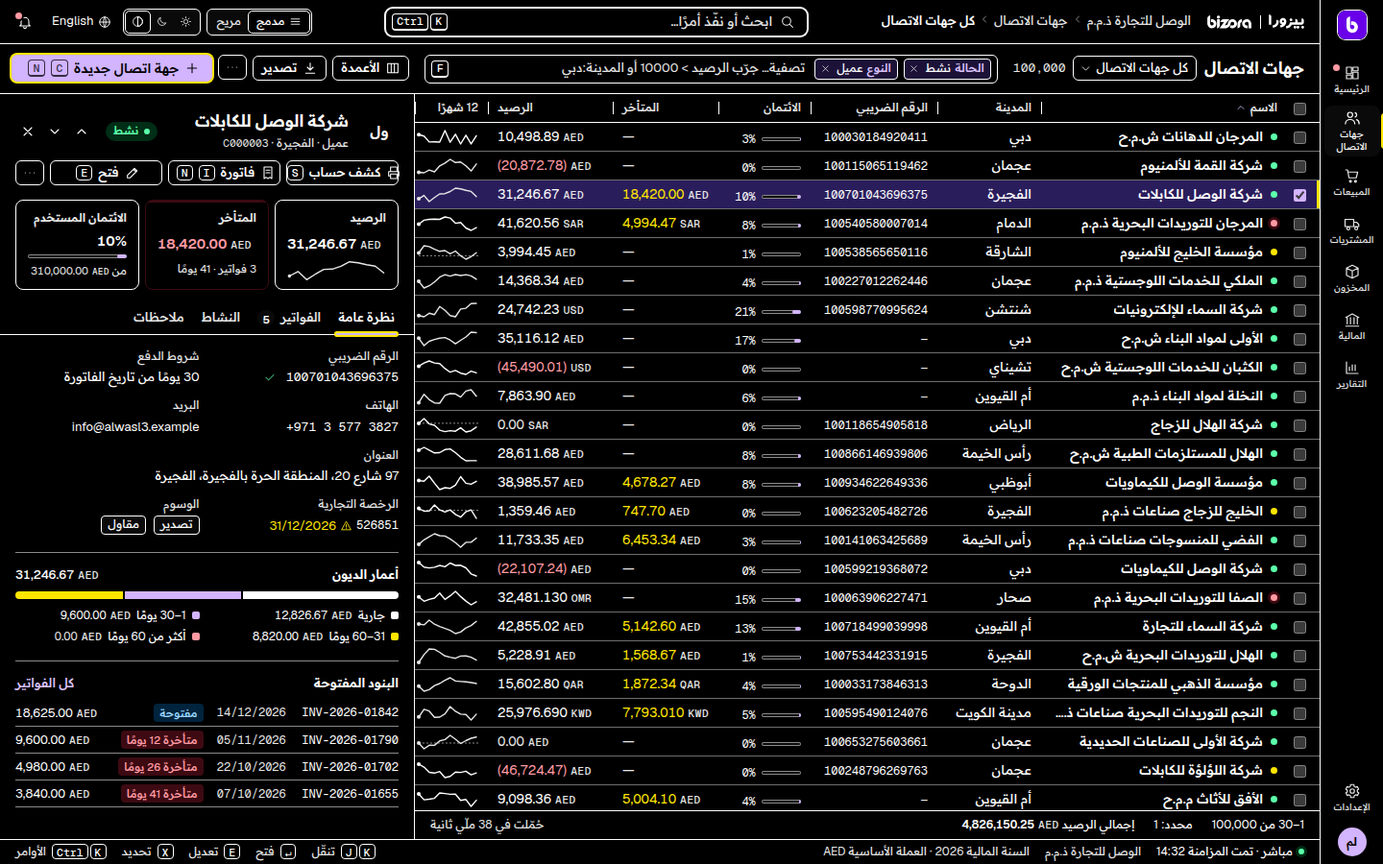
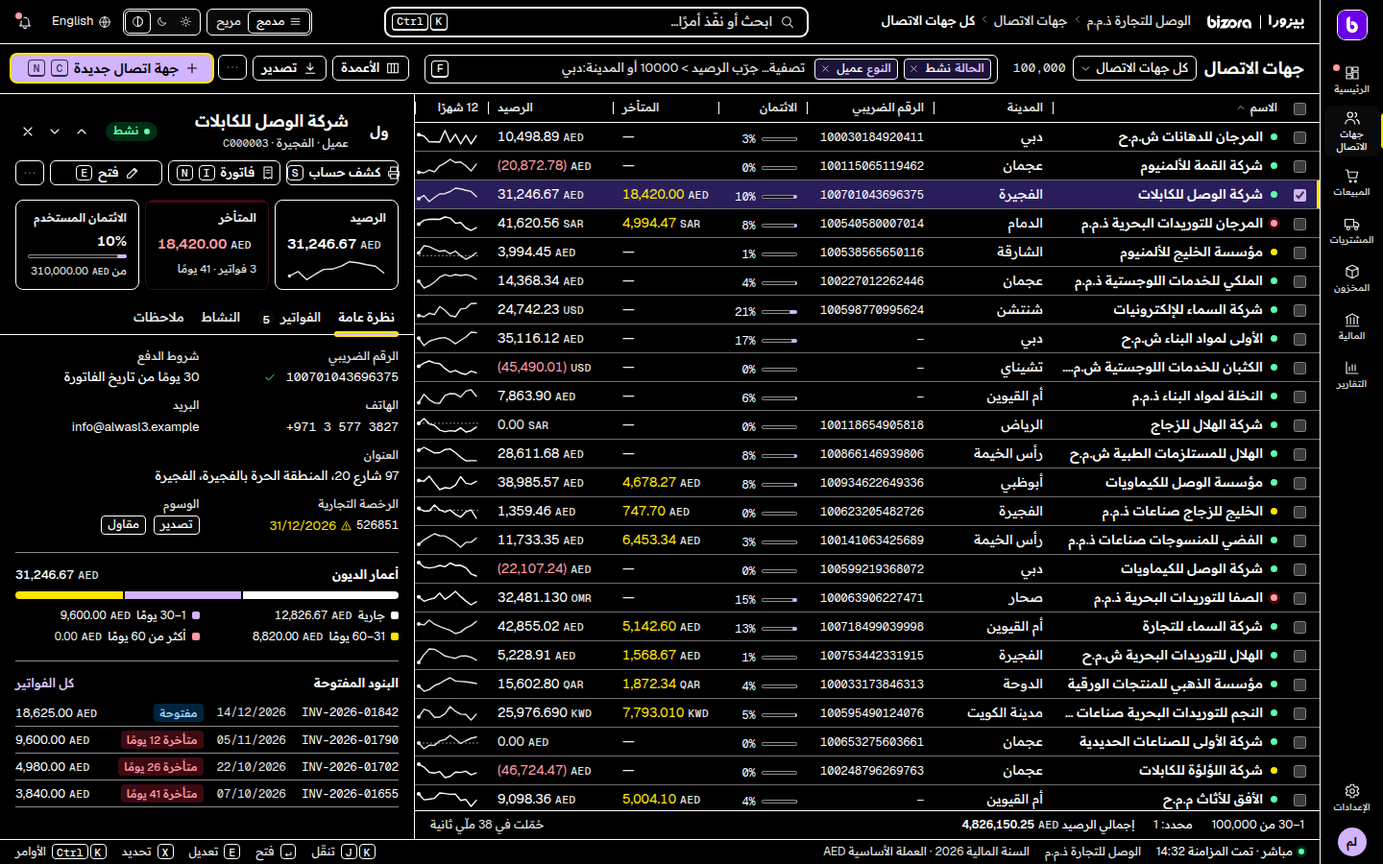
p18 samples round 2: direction D note, settings panels, wider city column, re-shot views
Claude-Session: https://claude.ai/code/session_01SSccqZmSUeubK1GMxd3Dhv

Changed region(s): [[0.5938, 0.1244, 0.75, 0.9333], [0.5938, 0.1244, 0.6875, 0.3733]]

diff --git a/docs/design/samples/d/settings.ar.html b/docs/design/samples/d/settings.ar.html
@@ -19,7 +19,7 @@
 <div class="setstats"><div><span class="k">نشطون</span><b class="mono"><bdi dir="ltr">9</bdi></b></div><div><span class="k">التحقق بخطوتين مفعّل</span><b class="mono"><bdi dir="ltr">7 / 12</bdi></b></div><div><span class="k">مدعوون</span><b class="mono"><bdi dir="ltr">1</bdi></b></div><div><span class="k">مقفلون</span><b class="mono t-danger"><bdi dir="ltr">1</bdi></b></div><div><span class="k">آخر مراجعة للصلاحيات</span><b class="mono"><bdi dir="ltr">10/11/2026</bdi></b></div></div>
 <div class="split split-set"><div class="setcol"><div class="grid-wrap"><table class="grid grid-users" aria-label="المستخدمون"><thead><tr><th class="c-sel"><input type="checkbox" aria-label="تحديد الكل"></th><th scope="col" class="c-name"><span class="th-in">المستخدم</span><i class="rz"></i></th><th scope="col" class="c-email"><span class="th-in">البريد</span><i class="rz"></i></th><th scope="col" class="c-roles"><span class="th-in">الأدوار</span><i class="rz"></i></th><th scope="col" class="c-2fa"><span class="th-in">التحقق</span><i class="rz"></i></th><th scope="col" class="c-status"><span class="th-in">الحالة</span><i class="rz"></i></th><th scope="col" class="c-last"><span class="th-in">آخر دخول</span><i class="rz"></i></th></tr></thead><tbody><tr class="row" tabindex="0"><td class="c-sel"><input type="checkbox" aria-label="تحديد"></td><td class="c-name trunc"><span class="avatar av-person">لم</span><span class="nm"><b title="ليلى المزروعي">ليلى المزروعي</b></span></td><td class="trunc" title="layla@alwasl-trading.example"><bdi dir="ltr">layla@alwasl-trading.example</bdi></td><td class="c-roles" title="المالك"><span class="tag">المالك</span></td><td><span class="ok-inline"><svg class="ic " viewBox="0 0 24 24" aria-hidden="true" focusable="false"><path d="M12 3l8 3v6c0 5-3.5 8-8 9-4.5-1-8-4-8-9V6zM8.5 12l2.5 2.5 4.5-5"/></svg>مفعّل</span></td><td><span class="pill pill-active"><i class="dot"></i>نشط</span></td><td class="tnum"><bdi dir="ltr">17/11/2026</bdi></td></tr><tr class="row is-selected" tabindex="0"><td class="c-sel"><input type="checkbox" checked aria-label="تحديد"></td><td class="c-name trunc"><span class="avatar av-person">عس</span><span class="nm"><b title="عمر السويدي">عمر السويدي</b></span></td><td class="trunc" title="omar.s@alwasl-trading.example"><bdi dir="ltr">omar.s@alwasl-trading.example</bdi></td><td class="c-roles" title="محاسب"><span class="tag">محاسب</span></td><td><span class="ok-inline"><svg class="ic " viewBox="0 0 24 24" aria-hidden="true" focusable="false"><path d="M12 3l8 3v6c0 5-3.5 8-8 9-4.5-1-8-4-8-9V6zM8.5 12l2.5 2.5 4.5-5"/></svg>مفعّل</span></td><td><span class="pill pill-active"><i class="dot"></i>نشط</span></td><td class="tnum"><bdi dir="ltr">17/11/2026</bdi></td></tr><tr class="row" tabindex="0"><td class="c-sel"><input type="checkbox" aria-label="تحديد"></td><td class="c-name trunc"><span class="avatar av-person">هت</span><span class="nm"><b title="هند توماس">هند توماس</b></span></td><td class="trunc" title="hind.t@alwasl-trading.example"><bdi dir="ltr">hind.t@alwasl-trading.example</bdi></td><td class="c-roles" title="مدير مبيعات"><span class="tag">مدير مبيعات</span></td><td><span class="ok-inline"><svg class="ic " viewBox="0 0 24 24" aria-hidden="true" focusable="false"><path d="M12 3l8 3v6c0 5-3.5 8-8 9-4.5-1-8-4-8-9V6zM8.5 12l2.5 2.5 4.5-5"/></svg>مفعّل</span></td><td><span class="pill pill-active"><i class="dot"></i>نشط</span></td><td class="tnum"><bdi dir="ltr">16/11/2026</bdi></td></tr><tr class="row" tabindex="0"><td class="c-sel"><input type="checkbox" aria-label="تحديد"></td><td class="c-name trunc"><span class="avatar av-person">كف</span><span class="nm"><b title="كريم فرنانديز">كريم فرنانديز</b></span></td><td class="trunc" title="karim.f@alwasl-trading.example"><bdi dir="ltr">karim.f@alwasl-trading.example</bdi></td><td class="c-roles" title="مبيعات"><span class="tag">مبيعات</span></td><td><span class="dim">غير مفعّل</span></td><td><span class="pill pill-active"><i class="dot"></i>نشط</span></td><td class="tnum"><bdi dir="ltr">16/11/2026</bdi></td></tr><tr class="row" tabindex="0"><td class="c-sel"><input type="checkbox" aria-label="تحديد"></td><td class="c-name trunc"><span class="avatar av-person">مر</span><span class="nm"><b title="منصور الرميثي">منصور الرميثي</b></span></td><td class="trunc" title="mansour.r@alwasl-trading.example"><bdi dir="ltr">mansour.r@alwasl-trading.example</bdi></td><td class="c-roles" title="مستودع"><span class="tag">مستودع</span></td><td><span class="dim">غير مفعّل</span></td><td><span class="pill pill-active"><i class="dot"></i>نشط</span></td><td class="tnum"><bdi dir="ltr">15/11/2026</bdi></td></tr><tr class="row" tabindex="0"><td class="c-sel"><input type="checkbox" aria-label="تحديد"></td><td class="c-name trunc"><span class="avatar av-person">فك</span><span class="nm"><b title="فاطمة الكعبي">فاطمة الكعبي</b></span></td><td class="trunc" title="fatima.k@alwasl-trading.example"><bdi dir="ltr">fatima.k@alwasl-trading.example</bdi></td><td class="c-roles" title="محاسب, مدقق"><span class="tag">محاسب</span><span class="tag more">+1</span></td><td><span class="ok-inline"><svg class="ic " viewBox="0 0 24 24" aria-hidden="true" focusable="false"><path d="M12 3l8 3v6c0 5-3.5 8-8 9-4.5-1-8-4-8-9V6zM8.5 12l2.5 2.5 4.5-5"/></svg>مفعّل</span></td><td><span class="pill pill-active"><i class="dot"></i>نشط</span></td><td class="tnum"><bdi dir="ltr">14/11/2026</bdi></td></tr><tr class="row" tabindex="0"><td class="c-sel"><input type="checkbox" aria-label="تحديد"></td><td class="c-name trunc"><span class="avatar av-person">رن</span><span class="nm"><b title="راشد النعيمي">راشد النعيمي</b></span></td><td class="trunc" title="rashid.n@alwasl-trading.example"><bdi dir="ltr">rashid.n@alwasl-trading.example</bdi></td><td class="c-roles" title="مشتريات"><span class="tag">مشتريات</span></td><td><span class="dim">غير مفعّل</span></td><td><span class="pill pill-hold"><i class="dot"></i>موقوف</span></td><td class="tnum"><bdi dir="ltr">02/11/2026</bdi></td></tr><tr class="row" tabindex="0"><td class="c-sel"><input type="checkbox" aria-label="تحديد"></td><td class="c-name trunc"><span class="avatar av-person">سم</span><span class="nm"><b title="سارة ماثيو">سارة ماثيو</b></span></td><td class="trunc" title="sara.m@alwasl-trading.example"><bdi dir="ltr">sara.m@alwasl-trading.example</bdi></td><td class="c-roles" title="مبيعات"><span class="tag">مبيعات</span></td><td><span class="ok-inline"><svg class="ic " viewBox="0 0 24 24" aria-hidden="true" focusable="false"><path d="M12 3l8 3v6c0 5-3.5 8-8 9-4.5-1-8-4-8-9V6zM8.5 12l2.5 2.5 4.5-5"/></svg>مفعّل</span></td><td><span class="pill pill-active"><i class="dot"></i>نشط</span></td><td class="tnum"><bdi dir="ltr">17/11/2026</bdi></td></tr><tr class="row" tabindex="0"><td class="c-sel"><input type="checkbox" aria-label="تحديد"></td><td class="c-name trunc"><span class="avatar av-person">يح</span><span class="nm"><b title="يوسف الحمادي">يوسف الحمادي</b></span></td><td class="trunc" title="yousef.h@alwasl-trading.example"><bdi dir="ltr">yousef.h@alwasl-trading.example</bdi></td><td class="c-roles" title="مستودع"><span class="tag">مستودع</span></td><td><span class="dim">غير مفعّل</span></td><td><span class="pill pill-info"><i class="dot"></i>مدعو</span></td><td class="tnum"><span class="dim">—</span></td></tr><tr class="row" tabindex="0"><td class="c-sel"><input type="checkbox" aria-label="تحديد"></td><td class="c-name trunc"><span class="avatar av-person">نف</span><span class="nm"><b title="نورة الفلاسي">نورة الفلاسي</b></span></td><td class="trunc" title="noura.f@alwasl-trading.example"><bdi dir="ltr">noura.f@alwasl-trading.example</bdi></td><td class="c-roles" title="رواتب"><span class="tag">رواتب</span></td><td><span class="ok-inline"><svg class="ic " viewBox="0 0 24 24" aria-hidden="true" focusable="false"><path d="M12 3l8 3v6c0 5-3.5 8-8 9-4.5-1-8-4-8-9V6zM8.5 12l2.5 2.5 4.5-5"/></svg>مفعّل</span></td><td><span class="pill pill-active"><i class="dot"></i>نشط</span></td><td class="tnum"><bdi dir="ltr">13/11/2026</bdi></td></tr><tr class="row" tabindex="0"><td class="c-sel"><input type="checkbox" aria-label="تحديد"></td><td class="c-name trunc"><span class="avatar av-person">طح</span><span class="nm"><b title="طارق حسين">طارق حسين</b></span></td><td class="trunc" title="tariq.h@alwasl-trading.example"><bdi dir="ltr">tariq.h@alwasl-trading.example</bdi></td><td class="c-roles" title="مشتريات"><span class="tag">مشتريات</span></td><td><span class="dim">غير مفعّل</span></td><td><span class="pill pill-active"><i class="dot"></i>نشط</span></td><td class="tnum"><bdi dir="ltr">12/11/2026</bdi></td></tr><tr class="row" tabindex="0"><td class="c-sel"><input type="checkbox" aria-label="تحديد"></td><td class="c-name trunc"><span class="avatar av-person">عش</span><span class="nm"><b title="عائشة الشامسي">عائشة الشامسي</b></span></td><td class="trunc" title="aisha.s@alwasl-trading.example"><bdi dir="ltr">aisha.s@alwasl-trading.example</bdi></td><td class="c-roles" title="مدقق"><span class="tag">مدقق</span></td><td><span class="ok-inline"><svg class="ic " viewBox="0 0 24 24" aria-hidden="true" focusable="false"><path d="M12 3l8 3v6c0 5-3.5 8-8 9-4.5-1-8-4-8-9V6zM8.5 12l2.5 2.5 4.5-5"/></svg>مفعّل</span></td><td><span class="pill pill-blocked"><i class="dot"></i>مقفل</span></td><td class="tnum"><bdi dir="ltr">29/10/2026</bdi></td></tr></tbody></table></div>
 <div class="below"><section class="panel"><h2 class="sec-t">تغييرات الصلاحيات هذا الشهر<a href="#" class="more">سجل التدقيق</a></h2><ol class="feed-list acc"><li><time class="mono"><bdi dir="ltr">17/11/2026 09:14</bdi></time><span class="f-ic"><svg class="ic " viewBox="0 0 24 24" aria-hidden="true" focusable="false"><path d="M3 6h18v12H3zM3 7l9 6 9-6"/></svg></span><p title="دعت ليلى المزروعي يوسف الحمادي · الدور: مستودع"><b>دعت ليلى المزروعي يوسف الحمادي</b> · الدور: مستودع</p></li><li><time class="mono"><bdi dir="ltr">12/11/2026 16:40</bdi></time><span class="f-ic"><svg class="ic " viewBox="0 0 24 24" aria-hidden="true" focusable="false"><path d="M12 3l8 3v6c0 5-3.5 8-8 9-4.5-1-8-4-8-9V6zM8.5 12l2.5 2.5 4.5-5"/></svg></span><p title="منحت ليلى المزروعي فاطمة الكعبي دور المدقق · دوران الآن"><b>منحت ليلى المزروعي فاطمة الكعبي دور المدقق</b> · دوران الآن</p></li><li><time class="mono"><bdi dir="ltr">02/11/2026 11:05</bdi></time><span class="f-ic"><svg class="ic " viewBox="0 0 24 24" aria-hidden="true" focusable="false"><path d="M6 11h12v9H6zM8.5 11V8a3.5 3.5 0 017 0v3"/></svg></span><p title="أوقفت ليلى المزروعي راشد النعيمي · غادر الشركة"><b>أوقفت ليلى المزروعي راشد النعيمي</b> · غادر الشركة</p></li><li><time class="mono"><bdi dir="ltr">29/10/2026 08:51</bdi></time><span class="f-ic"><svg class="ic " viewBox="0 0 24 24" aria-hidden="true" focusable="false"><path d="M12 4l9 16H3zM12 10v5M12 17.5h.01"/></svg></span><p title="تم قفل حساب عائشة الشامسي · 5 محاولات دخول فاشلة"><b>تم قفل حساب عائشة الشامسي</b> · 5 محاولات دخول فاشلة</p></li></ol></section>
-<section class="panel"><h2 class="sec-t">سياسة الدخول<a href="#" class="more">تغيير</a></h2><dl class="policy"><div><dt>التحقق بخطوتين</dt><dd><svg class="ic " viewBox="0 0 24 24" aria-hidden="true" focusable="false"><path d="M5 12.5l4.5 4.5L19 7.5"/></svg>إلزامي للمالية والمالك</dd></div><div><dt>مهلة الجلسة</dt><dd><svg class="ic " viewBox="0 0 24 24" aria-hidden="true" focusable="false"><path d="M5 12.5l4.5 4.5L19 7.5"/></svg>30 دقيقة دون نشاط</dd></div><div><dt>الدخول من</dt><dd><svg class="ic " viewBox="0 0 24 24" aria-hidden="true" focusable="false"><path d="M5 12.5l4.5 4.5L19 7.5"/></svg>الإمارات ودول الخليج فقط</dd></div></dl></section></div></div>
+<section class="panel"><h2 class="sec-t">سياسة الدخول<a href="#" class="more">تغيير</a></h2><dl class="policy"><div><dt>التحقق بخطوتين</dt><dd><svg class="ic " viewBox="0 0 24 24" aria-hidden="true" focusable="false"><path d="M5 12.5l4.5 4.5L19 7.5"/></svg>إلزامي للمالية والمالك</dd></div><div><dt>مهلة الجلسة</dt><dd><svg class="ic " viewBox="0 0 24 24" aria-hidden="true" focusable="false"><path d="M5 12.5l4.5 4.5L19 7.5"/></svg>30 دقيقة دون نشاط</dd></div><div><dt>الدخول من</dt><dd><svg class="ic " viewBox="0 0 24 24" aria-hidden="true" focusable="false"><path d="M5 12.5l4.5 4.5L19 7.5"/></svg>الإمارات ودول الخليج فقط</dd></div></dl><div class="seats"><div class="row"><b>المقاعد</b><span class="mono"><bdi dir="ltr">12 / 25</bdi></span></div><span class="mbar-wrap ok" title="الائتمان المستخدم 48%"><span class="mbar" role="img" aria-label="الائتمان المستخدم 48%"><i style="width:48.0%"></i></span></span><span class="dim">يتجدد الاشتراك في <bdi dir="ltr" class="mono">01/01/2027</bdi> · <span class="money" dir="ltr"><span class="amt"><span class="int">11,400</span><span class="dec">.00</span></span><span class="cur">AED</span></span> سنويًا</span></div></section></div></div>
 <aside class="pane rolepane" aria-label="الدور"><header class="pane-h"><span class="role-ic"><svg class="ic " viewBox="0 0 24 24" aria-hidden="true" focusable="false"><path d="M12 3l8 3v6c0 5-3.5 8-8 9-4.5-1-8-4-8-9V6zM8.5 12l2.5 2.5 4.5-5"/></svg></span><div class="pane-title"><h2>محاسب</h2><p>عضوان · عُدّل في 02/11/2026</p></div><div class="pane-nav"><button class="btn btn-ghost btn-sm"><svg class="ic " viewBox="0 0 24 24" aria-hidden="true" focusable="false"><path d="M4 20h4L19 9l-4-4L4 16zM13.5 6.5l4 4"/></svg><span>تعديل الدور</span></button></div></header>
 <div class="members"><span class="avatar av-person">عس</span><span>عمر السويدي</span><span class="avatar av-person">فك</span><span>فاطمة الكعبي</span></div>
 <table class="perm"><thead><tr><th scope="col">المجال</th><th scope="col">عرض</th><th scope="col">إنشاء</th><th scope="col">اعتماد</th><th scope="col">حذف</th></tr></thead><tbody><tr><th scope="row">جهات الاتصال</th><td><span class="pm on" role="img" aria-label="مسموح"><svg class="ic " viewBox="0 0 24 24" aria-hidden="true" focusable="false"><path d="M5 12.5l4.5 4.5L19 7.5"/></svg></span></td><td><span class="pm on" role="img" aria-label="مسموح"><svg class="ic " viewBox="0 0 24 24" aria-hidden="true" focusable="false"><path d="M5 12.5l4.5 4.5L19 7.5"/></svg></span></td><td><span class="pm off" role="img" aria-label="غير مسموح"></span></td><td><span class="pm off" role="img" aria-label="غير مسموح"></span></td></tr><tr><th scope="row">المبيعات</th><td><span class="pm on" role="img" aria-label="مسموح"><svg class="ic " viewBox="0 0 24 24" aria-hidden="true" focusable="false"><path d="M5 12.5l4.5 4.5L19 7.5"/></svg></span></td><td><span class="pm on" role="img" aria-label="مسموح"><svg class="ic " viewBox="0 0 24 24" aria-hidden="true" focusable="false"><path d="M5 12.5l4.5 4.5L19 7.5"/></svg></span></td><td><span class="pm on" role="img" aria-label="مسموح"><svg class="ic " viewBox="0 0 24 24" aria-hidden="true" focusable="false"><path d="M5 12.5l4.5 4.5L19 7.5"/></svg></span></td><td><span class="pm off" role="img" aria-label="غير مسموح"></span></td></tr><tr><th scope="row">المشتريات</th><td><span class="pm on" role="img" aria-label="مسموح"><svg class="ic " viewBox="0 0 24 24" aria-hidden="true" focusable="false"><path d="M5 12.5l4.5 4.5L19 7.5"/></svg></span></td><td><span class="pm on" role="img" aria-label="مسموح"><svg class="ic " viewBox="0 0 24 24" aria-hidden="true" focusable="false"><path d="M5 12.5l4.5 4.5L19 7.5"/></svg></span></td><td><span class="pm off" role="img" aria-label="غير مسموح"></span></td><td><span class="pm off" role="img" aria-label="غير مسموح"></span></td></tr><tr><th scope="row">المخزون</th><td><span class="pm on" role="img" aria-label="مسموح"><svg class="ic " viewBox="0 0 24 24" aria-hidden="true" focusable="false"><path d="M5 12.5l4.5 4.5L19 7.5"/></svg></span></td><td><span class="pm off" role="img" aria-label="غير مسموح"></span></td><td><span class="pm off" role="img" aria-label="غير مسموح"></span></td><td><span class="pm off" role="img" aria-label="غير مسموح"></span></td></tr><tr><th scope="row">المالية</th><td><span class="pm on" role="img" aria-label="مسموح"><svg class="ic " viewBox="0 0 24 24" aria-hidden="true" focusable="false"><path d="M5 12.5l4.5 4.5L19 7.5"/></svg></span></td><td><span class="pm on" role="img" aria-label="مسموح"><svg class="ic " viewBox="0 0 24 24" aria-hidden="true" focusable="false"><path d="M5 12.5l4.5 4.5L19 7.5"/></svg></span></td><td><span class="pm on" role="img" aria-label="مسموح"><svg class="ic " viewBox="0 0 24 24" aria-hidden="true" focusable="false"><path d="M5 12.5l4.5 4.5L19 7.5"/></svg></span></td><td><span class="pm off" role="img" aria-label="غير مسموح"></span></td></tr><tr><th scope="row">الإعدادات</th><td><span class="pm off" role="img" aria-label="غير مسموح"></span></td><td><span class="pm off" role="img" aria-label="غير مسموح"></span></td><td><span class="pm off" role="img" aria-label="غير مسموح"></span></td><td><span class="pm off" role="img" aria-label="غير مسموح"></span></td></tr></tbody></table>

diff --git a/docs/design/samples/d/settings.en.html b/docs/design/samples/d/settings.en.html
@@ -19,7 +19,7 @@
 <div class="setstats"><div><span class="k">Active</span><b class="mono"><bdi dir="ltr">9</bdi></b></div><div><span class="k">Two-step on</span><b class="mono"><bdi dir="ltr">7 / 12</bdi></b></div><div><span class="k">Invited</span><b class="mono"><bdi dir="ltr">1</bdi></b></div><div><span class="k">Locked</span><b class="mono t-danger"><bdi dir="ltr">1</bdi></b></div><div><span class="k">Last access review</span><b class="mono"><bdi dir="ltr">10/11/2026</bdi></b></div></div>
 <div class="split split-set"><div class="setcol"><div class="grid-wrap"><table class="grid grid-users" aria-label="Users"><thead><tr><th class="c-sel"><input type="checkbox" aria-label="Select all"></th><th scope="col" class="c-name"><span class="th-in">User</span><i class="rz"></i></th><th scope="col" class="c-email"><span class="th-in">Email</span><i class="rz"></i></th><th scope="col" class="c-roles"><span class="th-in">Roles</span><i class="rz"></i></th><th scope="col" class="c-2fa"><span class="th-in">Two-step</span><i class="rz"></i></th><th scope="col" class="c-status"><span class="th-in">Status</span><i class="rz"></i></th><th scope="col" class="c-last"><span class="th-in">Last sign-in</span><i class="rz"></i></th></tr></thead><tbody><tr class="row" tabindex="0"><td class="c-sel"><input type="checkbox" aria-label="Select"></td><td class="c-name trunc"><span class="avatar av-person">LA</span><span class="nm"><b title="Layla Al Mazrouei">Layla Al Mazrouei</b></span></td><td class="trunc" title="layla@alwasl-trading.example"><bdi dir="ltr">layla@alwasl-trading.example</bdi></td><td class="c-roles" title="Owner"><span class="tag">Owner</span></td><td><span class="ok-inline"><svg class="ic " viewBox="0 0 24 24" aria-hidden="true" focusable="false"><path d="M12 3l8 3v6c0 5-3.5 8-8 9-4.5-1-8-4-8-9V6zM8.5 12l2.5 2.5 4.5-5"/></svg>On</span></td><td><span class="pill pill-active"><i class="dot"></i>Active</span></td><td class="tnum"><bdi dir="ltr">17/11/2026</bdi></td></tr><tr class="row is-selected" tabindex="0"><td class="c-sel"><input type="checkbox" checked aria-label="Select"></td><td class="c-name trunc"><span class="avatar av-person">OA</span><span class="nm"><b title="Omar Al Suwaidi">Omar Al Suwaidi</b></span></td><td class="trunc" title="omar.s@alwasl-trading.example"><bdi dir="ltr">omar.s@alwasl-trading.example</bdi></td><td class="c-roles" title="Accountant"><span class="tag">Accountant</span></td><td><span class="ok-inline"><svg class="ic " viewBox="0 0 24 24" aria-hidden="true" focusable="false"><path d="M12 3l8 3v6c0 5-3.5 8-8 9-4.5-1-8-4-8-9V6zM8.5 12l2.5 2.5 4.5-5"/></svg>On</span></td><td><span class="pill pill-active"><i class="dot"></i>Active</span></td><td class="tnum"><bdi dir="ltr">17/11/2026</bdi></td></tr><tr class="row" tabindex="0"><td class="c-sel"><input type="checkbox" aria-label="Select"></td><td class="c-name trunc"><span class="avatar av-person">HT</span><span class="nm"><b title="Hind Thomas">Hind Thomas</b></span></td><td class="trunc" title="hind.t@alwasl-trading.example"><bdi dir="ltr">hind.t@alwasl-trading.example</bdi></td><td class="c-roles" title="Sales manager"><span class="tag">Sales manager</span></td><td><span class="ok-inline"><svg class="ic " viewBox="0 0 24 24" aria-hidden="true" focusable="false"><path d="M12 3l8 3v6c0 5-3.5 8-8 9-4.5-1-8-4-8-9V6zM8.5 12l2.5 2.5 4.5-5"/></svg>On</span></td><td><span class="pill pill-active"><i class="dot"></i>Active</span></td><td class="tnum"><bdi dir="ltr">16/11/2026</bdi></td></tr><tr class="row" tabindex="0"><td class="c-sel"><input type="checkbox" aria-label="Select"></td><td class="c-name trunc"><span class="avatar av-person">KF</span><span class="nm"><b title="Karim Fernandes">Karim Fernandes</b></span></td><td class="trunc" title="karim.f@alwasl-trading.example"><bdi dir="ltr">karim.f@alwasl-trading.example</bdi></td><td class="c-roles" title="Sales"><span class="tag">Sales</span></td><td><span class="dim">Off</span></td><td><span class="pill pill-active"><i class="dot"></i>Active</span></td><td class="tnum"><bdi dir="ltr">16/11/2026</bdi></td></tr><tr class="row" tabindex="0"><td class="c-sel"><input type="checkbox" aria-label="Select"></td><td class="c-name trunc"><span class="avatar av-person">MA</span><span class="nm"><b title="Mansour Al Romaithi">Mansour Al Romaithi</b></span></td><td class="trunc" title="mansour.r@alwasl-trading.example"><bdi dir="ltr">mansour.r@alwasl-trading.example</bdi></td><td class="c-roles" title="Warehouse"><span class="tag">Warehouse</span></td><td><span class="dim">Off</span></td><td><span class="pill pill-active"><i class="dot"></i>Active</span></td><td class="tnum"><bdi dir="ltr">15/11/2026</bdi></td></tr><tr class="row" tabindex="0"><td class="c-sel"><input type="checkbox" aria-label="Select"></td><td class="c-name trunc"><span class="avatar av-person">FA</span><span class="nm"><b title="Fatima Al Kaabi">Fatima Al Kaabi</b></span></td><td class="trunc" title="fatima.k@alwasl-trading.example"><bdi dir="ltr">fatima.k@alwasl-trading.example</bdi></td><td class="c-roles" title="Accountant, Auditor"><span class="tag">Accountant</span><span class="tag more">+1</span></td><td><span class="ok-inline"><svg class="ic " viewBox="0 0 24 24" aria-hidden="true" focusable="false"><path d="M12 3l8 3v6c0 5-3.5 8-8 9-4.5-1-8-4-8-9V6zM8.5 12l2.5 2.5 4.5-5"/></svg>On</span></td><td><span class="pill pill-active"><i class="dot"></i>Active</span></td><td class="tnum"><bdi dir="ltr">14/11/2026</bdi></td></tr><tr class="row" tabindex="0"><td class="c-sel"><input type="checkbox" aria-label="Select"></td><td class="c-name trunc"><span class="avatar av-person">RA</span><span class="nm"><b title="Rashid Al Nuaimi">Rashid Al Nuaimi</b></span></td><td class="trunc" title="rashid.n@alwasl-trading.example"><bdi dir="ltr">rashid.n@alwasl-trading.example</bdi></td><td class="c-roles" title="Purchasing"><span class="tag">Purchasing</span></td><td><span class="dim">Off</span></td><td><span class="pill pill-hold"><i class="dot"></i>Suspended</span></td><td class="tnum"><bdi dir="ltr">02/11/2026</bdi></td></tr><tr class="row" tabindex="0"><td class="c-sel"><input type="checkbox" aria-label="Select"></td><td class="c-name trunc"><span class="avatar av-person">SM</span><span class="nm"><b title="Sara Mathew">Sara Mathew</b></span></td><td class="trunc" title="sara.m@alwasl-trading.example"><bdi dir="ltr">sara.m@alwasl-trading.example</bdi></td><td class="c-roles" title="Sales"><span class="tag">Sales</span></td><td><span class="ok-inline"><svg class="ic " viewBox="0 0 24 24" aria-hidden="true" focusable="false"><path d="M12 3l8 3v6c0 5-3.5 8-8 9-4.5-1-8-4-8-9V6zM8.5 12l2.5 2.5 4.5-5"/></svg>On</span></td><td><span class="pill pill-active"><i class="dot"></i>Active</span></td><td class="tnum"><bdi dir="ltr">17/11/2026</bdi></td></tr><tr class="row" tabindex="0"><td class="c-sel"><input type="checkbox" aria-label="Select"></td><td class="c-name trunc"><span class="avatar av-person">YA</span><span class="nm"><b title="Yousef Al Hammadi">Yousef Al Hammadi</b></span></td><td class="trunc" title="yousef.h@alwasl-trading.example"><bdi dir="ltr">yousef.h@alwasl-trading.example</bdi></td><td class="c-roles" title="Warehouse"><span class="tag">Warehouse</span></td><td><span class="dim">Off</span></td><td><span class="pill pill-info"><i class="dot"></i>Invited</span></td><td class="tnum"><span class="dim">—</span></td></tr><tr class="row" tabindex="0"><td class="c-sel"><input type="checkbox" aria-label="Select"></td><td class="c-name trunc"><span class="avatar av-person">NA</span><span class="nm"><b title="Noura Al Falasi">Noura Al Falasi</b></span></td><td class="trunc" title="noura.f@alwasl-trading.example"><bdi dir="ltr">noura.f@alwasl-trading.example</bdi></td><td class="c-roles" title="Payroll"><span class="tag">Payroll</span></td><td><span class="ok-inline"><svg class="ic " viewBox="0 0 24 24" aria-hidden="true" focusable="false"><path d="M12 3l8 3v6c0 5-3.5 8-8 9-4.5-1-8-4-8-9V6zM8.5 12l2.5 2.5 4.5-5"/></svg>On</span></td><td><span class="pill pill-active"><i class="dot"></i>Active</span></td><td class="tnum"><bdi dir="ltr">13/11/2026</bdi></td></tr><tr class="row" tabindex="0"><td class="c-sel"><input type="checkbox" aria-label="Select"></td><td class="c-name trunc"><span class="avatar av-person">TH</span><span class="nm"><b title="Tariq Hussain">Tariq Hussain</b></span></td><td class="trunc" title="tariq.h@alwasl-trading.example"><bdi dir="ltr">tariq.h@alwasl-trading.example</bdi></td><td class="c-roles" title="Purchasing"><span class="tag">Purchasing</span></td><td><span class="dim">Off</span></td><td><span class="pill pill-active"><i class="dot"></i>Active</span></td><td class="tnum"><bdi dir="ltr">12/11/2026</bdi></td></tr><tr class="row" tabindex="0"><td class="c-sel"><input type="checkbox" aria-label="Select"></td><td class="c-name trunc"><span class="avatar av-person">AA</span><span class="nm"><b title="Aisha Al Shamsi">Aisha Al Shamsi</b></span></td><td class="trunc" title="aisha.s@alwasl-trading.example"><bdi dir="ltr">aisha.s@alwasl-trading.example</bdi></td><td class="c-roles" title="Auditor"><span class="tag">Auditor</span></td><td><span class="ok-inline"><svg class="ic " viewBox="0 0 24 24" aria-hidden="true" focusable="false"><path d="M12 3l8 3v6c0 5-3.5 8-8 9-4.5-1-8-4-8-9V6zM8.5 12l2.5 2.5 4.5-5"/></svg>On</span></td><td><span class="pill pill-blocked"><i class="dot"></i>Locked</span></td><td class="tnum"><bdi dir="ltr">29/10/2026</bdi></td></tr></tbody></table></div>
 <div class="below"><section class="panel"><h2 class="sec-t">Access changes this month<a href="#" class="more">Audit log</a></h2><ol class="feed-list acc"><li><time class="mono"><bdi dir="ltr">17/11/2026 09:14</bdi></time><span class="f-ic"><svg class="ic " viewBox="0 0 24 24" aria-hidden="true" focusable="false"><path d="M3 6h18v12H3zM3 7l9 6 9-6"/></svg></span><p title="Layla Al Mazrouei invited Yousef Al Hammadi · role: Warehouse"><b>Layla Al Mazrouei invited Yousef Al Hammadi</b> · role: Warehouse</p></li><li><time class="mono"><bdi dir="ltr">12/11/2026 16:40</bdi></time><span class="f-ic"><svg class="ic " viewBox="0 0 24 24" aria-hidden="true" focusable="false"><path d="M12 3l8 3v6c0 5-3.5 8-8 9-4.5-1-8-4-8-9V6zM8.5 12l2.5 2.5 4.5-5"/></svg></span><p title="Layla Al Mazrouei gave Fatima Al Kaabi the Auditor role · 2 roles now"><b>Layla Al Mazrouei gave Fatima Al Kaabi the Auditor role</b> · 2 roles now</p></li><li><time class="mono"><bdi dir="ltr">02/11/2026 11:05</bdi></time><span class="f-ic"><svg class="ic " viewBox="0 0 24 24" aria-hidden="true" focusable="false"><path d="M6 11h12v9H6zM8.5 11V8a3.5 3.5 0 017 0v3"/></svg></span><p title="Layla Al Mazrouei suspended Rashid Al Nuaimi · left the company"><b>Layla Al Mazrouei suspended Rashid Al Nuaimi</b> · left the company</p></li><li><time class="mono"><bdi dir="ltr">29/10/2026 08:51</bdi></time><span class="f-ic"><svg class="ic " viewBox="0 0 24 24" aria-hidden="true" focusable="false"><path d="M12 4l9 16H3zM12 10v5M12 17.5h.01"/></svg></span><p title="Aisha Al Shamsi was locked out · 5 failed sign-ins"><b>Aisha Al Shamsi was locked out</b> · 5 failed sign-ins</p></li></ol></section>
-<section class="panel"><h2 class="sec-t">Sign-in policy<a href="#" class="more">Change</a></h2><dl class="policy"><div><dt>Two-step verification</dt><dd><svg class="ic " viewBox="0 0 24 24" aria-hidden="true" focusable="false"><path d="M5 12.5l4.5 4.5L19 7.5"/></svg>required for Finance and Owner</dd></div><div><dt>Session timeout</dt><dd><svg class="ic " viewBox="0 0 24 24" aria-hidden="true" focusable="false"><path d="M5 12.5l4.5 4.5L19 7.5"/></svg>30 minutes idle</dd></div><div><dt>Sign-in from</dt><dd><svg class="ic " viewBox="0 0 24 24" aria-hidden="true" focusable="false"><path d="M5 12.5l4.5 4.5L19 7.5"/></svg>UAE and GCC only</dd></div></dl></section></div></div>
+<section class="panel"><h2 class="sec-t">Sign-in policy<a href="#" class="more">Change</a></h2><dl class="policy"><div><dt>Two-step verification</dt><dd><svg class="ic " viewBox="0 0 24 24" aria-hidden="true" focusable="false"><path d="M5 12.5l4.5 4.5L19 7.5"/></svg>required for Finance and Owner</dd></div><div><dt>Session timeout</dt><dd><svg class="ic " viewBox="0 0 24 24" aria-hidden="true" focusable="false"><path d="M5 12.5l4.5 4.5L19 7.5"/></svg>30 minutes idle</dd></div><div><dt>Sign-in from</dt><dd><svg class="ic " viewBox="0 0 24 24" aria-hidden="true" focusable="false"><path d="M5 12.5l4.5 4.5L19 7.5"/></svg>UAE and GCC only</dd></div></dl><div class="seats"><div class="row"><b>Seats</b><span class="mono"><bdi dir="ltr">12 / 25</bdi></span></div><span class="mbar-wrap ok" title="Credit used 48%"><span class="mbar" role="img" aria-label="Credit used 48%"><i style="width:48.0%"></i></span></span><span class="dim">Plan renews on <bdi dir="ltr" class="mono">01/01/2027</bdi> · <span class="money" dir="ltr"><span class="amt"><span class="int">11,400</span><span class="dec">.00</span></span><span class="cur">AED</span></span> a year</span></div></section></div></div>
 <aside class="pane rolepane" aria-label="Role"><header class="pane-h"><span class="role-ic"><svg class="ic " viewBox="0 0 24 24" aria-hidden="true" focusable="false"><path d="M12 3l8 3v6c0 5-3.5 8-8 9-4.5-1-8-4-8-9V6zM8.5 12l2.5 2.5 4.5-5"/></svg></span><div class="pane-title"><h2>Accountant</h2><p>2 members · changed 02/11/2026</p></div><div class="pane-nav"><button class="btn btn-ghost btn-sm"><svg class="ic " viewBox="0 0 24 24" aria-hidden="true" focusable="false"><path d="M4 20h4L19 9l-4-4L4 16zM13.5 6.5l4 4"/></svg><span>Edit role</span></button></div></header>
 <div class="members"><span class="avatar av-person">OS</span><span>Omar Al Suwaidi</span><span class="avatar av-person">FK</span><span>Fatima Al Kaabi</span></div>
 <table class="perm"><thead><tr><th scope="col">Area</th><th scope="col">View</th><th scope="col">Create</th><th scope="col">Approve</th><th scope="col">Delete</th></tr></thead><tbody><tr><th scope="row">Contacts</th><td><span class="pm on" role="img" aria-label="Allowed"><svg class="ic " viewBox="0 0 24 24" aria-hidden="true" focusable="false"><path d="M5 12.5l4.5 4.5L19 7.5"/></svg></span></td><td><span class="pm on" role="img" aria-label="Allowed"><svg class="ic " viewBox="0 0 24 24" aria-hidden="true" focusable="false"><path d="M5 12.5l4.5 4.5L19 7.5"/></svg></span></td><td><span class="pm off" role="img" aria-label="Not allowed"></span></td><td><span class="pm off" role="img" aria-label="Not allowed"></span></td></tr><tr><th scope="row">Sales</th><td><span class="pm on" role="img" aria-label="Allowed"><svg class="ic " viewBox="0 0 24 24" aria-hidden="true" focusable="false"><path d="M5 12.5l4.5 4.5L19 7.5"/></svg></span></td><td><span class="pm on" role="img" aria-label="Allowed"><svg class="ic " viewBox="0 0 24 24" aria-hidden="true" focusable="false"><path d="M5 12.5l4.5 4.5L19 7.5"/></svg></span></td><td><span class="pm on" role="img" aria-label="Allowed"><svg class="ic " viewBox="0 0 24 24" aria-hidden="true" focusable="false"><path d="M5 12.5l4.5 4.5L19 7.5"/></svg></span></td><td><span class="pm off" role="img" aria-label="Not allowed"></span></td></tr><tr><th scope="row">Purchasing</th><td><span class="pm on" role="img" aria-label="Allowed"><svg class="ic " viewBox="0 0 24 24" aria-hidden="true" focusable="false"><path d="M5 12.5l4.5 4.5L19 7.5"/></svg></span></td><td><span class="pm on" role="img" aria-label="Allowed"><svg class="ic " viewBox="0 0 24 24" aria-hidden="true" focusable="false"><path d="M5 12.5l4.5 4.5L19 7.5"/></svg></span></td><td><span class="pm off" role="img" aria-label="Not allowed"></span></td><td><span class="pm off" role="img" aria-label="Not allowed"></span></td></tr><tr><th scope="row">Inventory</th><td><span class="pm on" role="img" aria-label="Allowed"><svg class="ic " viewBox="0 0 24 24" aria-hidden="true" focusable="false"><path d="M5 12.5l4.5 4.5L19 7.5"/></svg></span></td><td><span class="pm off" role="img" aria-label="Not allowed"></span></td><td><span class="pm off" role="img" aria-label="Not allowed"></span></td><td><span class="pm off" role="img" aria-label="Not allowed"></span></td></tr><tr><th scope="row">Finance</th><td><span class="pm on" role="img" aria-label="Allowed"><svg class="ic " viewBox="0 0 24 24" aria-hidden="true" focusable="false"><path d="M5 12.5l4.5 4.5L19 7.5"/></svg></span></td><td><span class="pm on" role="img" aria-label="Allowed"><svg class="ic " viewBox="0 0 24 24" aria-hidden="true" focusable="false"><path d="M5 12.5l4.5 4.5L19 7.5"/></svg></span></td><td><span class="pm on" role="img" aria-label="Allowed"><svg class="ic " viewBox="0 0 24 24" aria-hidden="true" focusable="false"><path d="M5 12.5l4.5 4.5L19 7.5"/></svg></span></td><td><span class="pm off" role="img" aria-label="Not allowed"></span></td></tr><tr><th scope="row">Settings</th><td><span class="pm off" role="img" aria-label="Not allowed"></span></td><td><span class="pm off" role="img" aria-label="Not allowed"></span></td><td><span class="pm off" role="img" aria-label="Not allowed"></span></td><td><span class="pm off" role="img" aria-label="Not allowed"></span></td></tr></tbody></table>

diff --git a/docs/design/samples/d/style.css b/docs/design/samples/d/style.css
@@ -258,7 +258,7 @@ table.grid{border-collapse:separate;border-spacing:0;width:100%;table-layout:fix
 .grid tr:focus-visible td{background:var(--selected)}
 .grid .c-sel{width:34px;padding-inline:var(--sp-4) 0;text-align:center}
 .grid input[type=checkbox]{accent-color:var(--accent);width:13px;height:13px;vertical-align:middle}
-.c-city{width:108px}.c-trn{width:132px}.c-cr{width:96px}.c-od{width:110px}.c-bal{width:130px}.c-tr{width:76px}
+.c-city{width:124px}.c-trn{width:132px}.c-cr{width:92px}.c-od{width:110px}.c-bal{width:130px}.c-tr{width:76px}
 .grid td.c-trn{font-size:var(--fs-code);color:var(--fg-muted)}
 .nm{display:flex;align-items:center;gap:var(--sp-4);min-width:0}
 .nm b{font-weight:var(--fw-medium);overflow:hidden;text-overflow:ellipsis;white-space:nowrap;min-width:0}
@@ -446,7 +446,7 @@ table.mini{width:100%;border-collapse:collapse;font-size:var(--fs-sm);margin-top
 .grid-users td.c-name{display:table-cell}
 .grid-users .c-name .avatar{margin-inline-end:var(--sp-4);vertical-align:middle}
 .grid-users .nm{display:inline}
-.grid-users td:nth-child(3){color:var(--fg-muted);font-family:var(--font-mono);font-size:var(--fs-xs)}
+.grid-users td:nth-child(3){color:var(--fg-muted);font-family:var(--font-mono);font-size:var(--fs-2xs)}
 .grid-users td:last-child{font-family:var(--font-mono);font-size:var(--fs-xs);color:var(--fg-muted)}
 .rolepane{width:400px}
 .role-ic{width:36px;height:36px;border-radius:var(--radius-3);display:grid;place-items:center;background:var(--accent-soft);color:var(--accent-text);box-shadow:var(--glow-soft)}
@@ -529,3 +529,10 @@ table.perm{width:calc(100% - 2 * var(--sp-6));margin-inline:var(--sp-6);border-c
 .grid-users td:nth-child(3){direction:ltr}
 [dir=rtl] .grid-users td:nth-child(3){text-align:right}
 .grid-users .c-2fa{width:88px}
+.grid-users .c-name{width:180px}.grid-users .c-2fa{width:70px}.grid-users .c-status{width:112px}
+:lang(ar) .grid-users .c-2fa{width:88px}
+.rolepane{width:344px}
+.subnav{width:190px}
+.seats{margin-top:var(--sp-5);padding-top:var(--sp-5);border-top:1px solid var(--line-soft);display:flex;flex-direction:column;gap:var(--sp-3);font-size:var(--fs-sm)}
+.seats .row{display:flex;justify-content:space-between;gap:var(--sp-4)}
+.seats .dim{font-size:var(--fs-xs)}

diff --git a/docs/design/samples/d/note.md b/docs/design/samples/d/note.md
@@ -1,0 +1,13 @@
+# Direction D: "Command centre"
+
+Dark-first, built for the person who lives in the system all day. The keyboard is the hero: a command field sits in the top bar and on the home page, Ctrl K opens a command palette (shown in `screenshots/command-palette.*.png`) that finds records, runs actions on them and jumps anywhere; every button shows its shortcut, and an IDE-style status bar keeps the keys in sight. Screens are split views: a crisp, high-information grid beside a record pane, so nothing opens on top of the list. Light and high-contrast themes use the same tokens.
+
+**Palette.** Dark ground #08070D with three surface steps (#0F0E17, #14131E, #1A1926) and hairlines #22202F, so depth comes from tone, not borders. One accent, the brand's dark violet #9B5CFF (#6A00E8 in the light theme). Glow (`--glow`, `--glow-soft`) is used only on the command field, the primary action, the active tab, the selected palette item and the focused field. Status colours are quiet: mint, amber, coral, blue, each AA on its surface. Overdue amounts are amber, negatives coral in brackets. High contrast is black with white rules, yellow focus and no glow.
+
+**Type.** English: Geist (variable, SIL OFL) for the interface, Geist Mono (SIL OFL) for codes, TRNs, references, dates in lists and keys. Arabic: Readex Pro (variable, SIL OFL), a clean geometric Arabic designed for screens; it is second in the same stack, so names, TRNs and emails share one baseline in mixed lines. Scale 10.5/11/12/13/14/16/20/26/30 px; Arabic is one step larger with 1.7 leading for running text, 1.5 inside dense cards and grids, and no letter-spacing. Tabular figures on every amount; the decimals are lighter in headline figures; codes keep a fixed 12 px so a 15-digit TRN always fits.
+
+**Spacing and shape.** 4 px grid. Radius 4 to 12 px. Compact is the default (30 px rows, 28 px controls); Comfortable gives 40 px rows. The switch is always in the top bar.
+
+**Components.** Icon rail with labels and a glow edge on the open module; top bar with both wordmarks, breadcrumb, command field (Ctrl K), density, theme and language; status bar with sync state, company, base currency and the keys for the screen. Home: actions first (overdue to chase, approvals, stock to reorder, credit breached), each card with its count, total, top three items and one action key; then five key figures with 12-month area sparklines and deltas; then recent activity and an empty-state card that leads to the first step. Contacts: query-style filter tokens, a grid with status dot, TRN, credit-used micro-bar, overdue, balance and a 12-month sparkline, and a record pane with balance, overdue and credit tiles, ageing bar, open items and actions with keys. Form: record header with key figures, tabs, a numbered section index with error and change dots, three-column sections, money fields with a currency chip and the base-currency equivalent, dd/mm/yyyy dates, inline validation, an inspector (credit, ageing, who created and changed the record), and a floating save bar that counts unsaved changes and errors. Settings: users grid, a role pane with a permission matrix, access changes this month, sign-in policy and seats. Sign-in: the palette idea shown beside a plain, fast form with passkey and company sign-on.
+
+**Why better.** Than A, B and C: A is fast but looks like every business tool; B is calm but shows less; C is beautiful but slower to scan. D shows more per screen than A (status, credit used, overdue and trend in one row) and makes every action reachable without the mouse. Than Dynamics 365: no ribbon to hunt through, no page reloads between list and record, a real dark theme, and Arabic set in a designed Arabic face rather than a fallback. Than Odoo: a split view instead of switching between list and form, a command palette that acts on records (not only searches menus), ageing and credit visible in the list, 3-decimal KWD, BHD and OMR, and a true right-to-left layout with mirrored charts. Best fit for accountants, credit controllers and operations staff who work from the keyboard all day; the cost is a more technical feel that some owners may find less warm than C or F.
